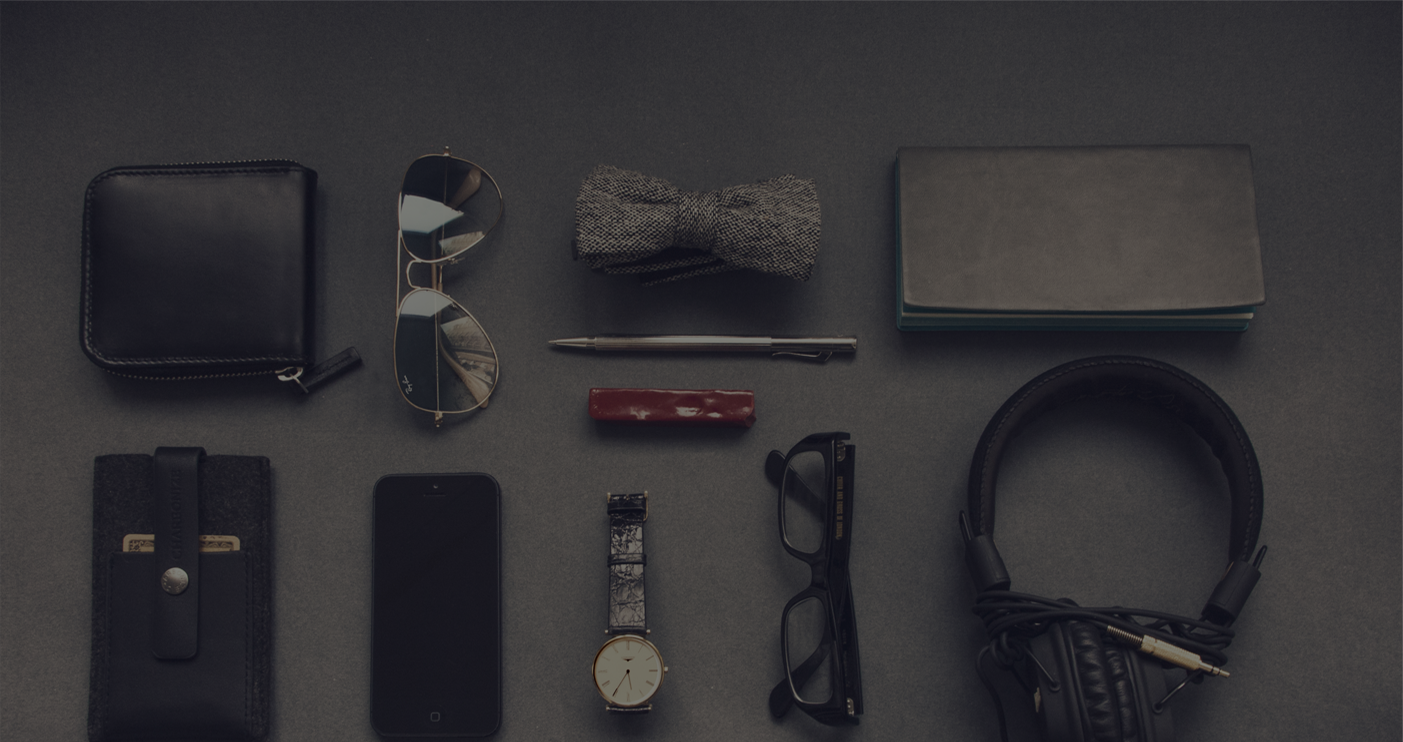
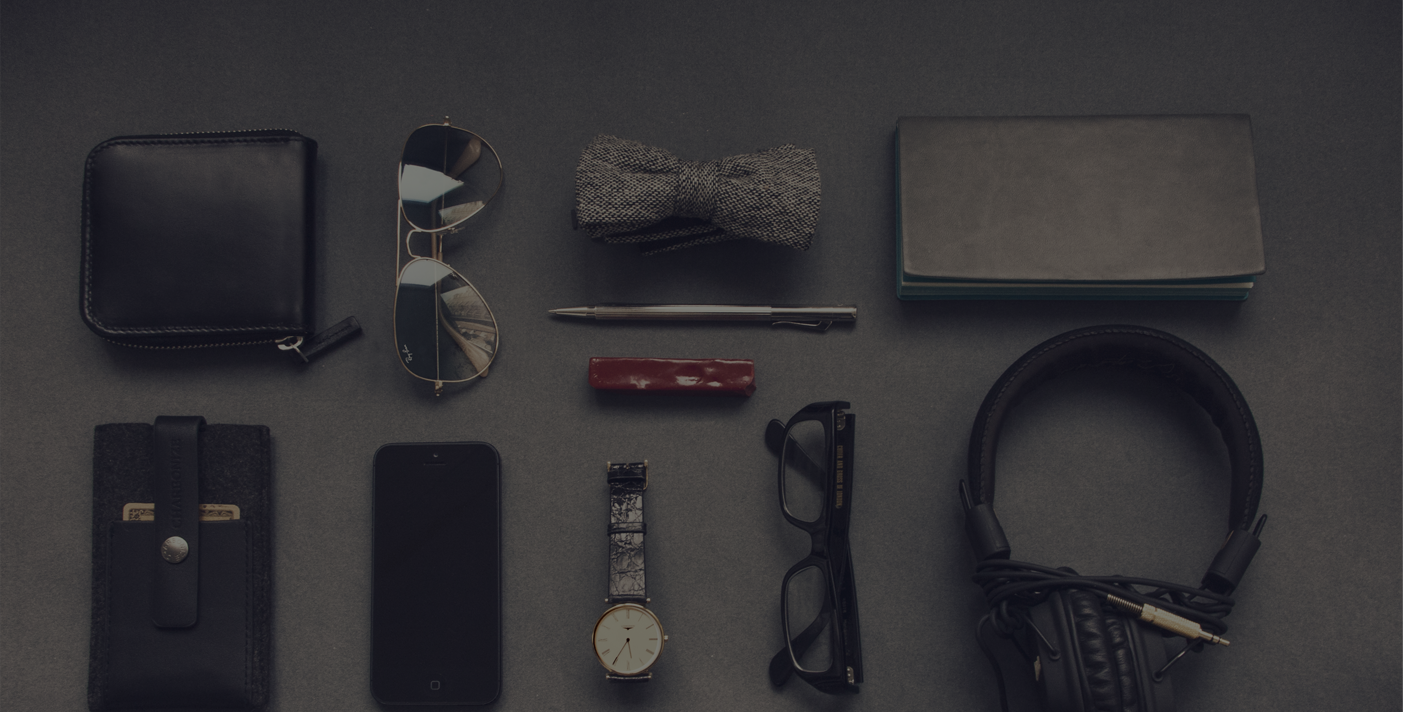
header

diff --git a/css/golden.css b/css/golden.css
@@ -1,13 +1,25 @@
+/*----------GLOBAL*/
 body {
 	color: #000000;
 	background-color: #ffffff;
 }
-header {
-	text-align: center;
-	background-size: auto auto;
-	background-image: url("../image/Tint.png");
-	background-repeat: no-repeat;
+a {
+	font-size: 18px;
+	text-decoration: none;
 }
+li {
+	display: inline-block;
+}
+.container {
+	max-width: 940px;
+	width: 100%;
+	margin: 0 auto;
+}
+.row {
+	margin: 0;
+}
+
+/*----------TYPOGRAPHY*/
 h1 {
 	margin: 0;
 	font-size: 75px;
@@ -16,12 +28,10 @@ h1, h2, a {
 	font-family: 'Montserrat', sans-serif;
 	font-weight: 700;
 	text-transform: uppercase;
-}
-h1, header h2 {
 	color: #ffffff;
 }
 header h2 {
-	margin: 0 0 50px 0;
+	margin: 190px 0 50px 0;
 	font-family: 'Droid Serif', serif;
 	font-weight: 400;
 	font-style: italic;
@@ -30,17 +40,48 @@ header h2 {
 h2 {
 	font-size: 40px;
 }
-a {
-	font-size: 18px;
-}
+
+/*-----------BUTTONS*/
 .btn {
 	margin: 60px 0 160px 0;
 	display: inline-block;
 	border-radius: 3px;
 	width: 240px;
 	line-height: 65px;
-	color: #ffffff;
 	letter-spacing: 1px;
 	background-color: #fed136;
-	text-decoration: none;
+}
+/*---------------STYLE--------------*/
+/*---------HEADER*/
+header {
+	text-align: center;
+	background-size: cover;
+	background-image: url("../image/tint.png");
+	background-repeat: no-repeat;
+}
+.navbar {
+}
+.navbar__item {
+	justify-content: space-between;
+}
+.navbar__item--logo {
+	margin-top: 50px;
+}
+.navbar__item--logo a {
+	font-family: 'Great Vibes', cursive;
+	font-size: 30px;
+	letter-spacing: 2px;
+	color: #fed136;
+	text-transform: capitalize;
+}
+.navbar__item--list {
+	margin-top: 34px;
+}
+.navbar__item--list ul li {
+	padding-left: 38px;
+}
+.navbar__item--list ul li a {
+	font-size: 14px;
+	font-weight: 400;
+	letter-spacing: 1px;
 }

diff --git a/golden.html b/golden.html
@@ -10,15 +10,34 @@
 		    <link rel="stylesheet" href="css/golden.css">
 		    <link rel="author" href="humans.txt">
 		    <link href="https://fonts.googleapis.com/css?family=Droid+Serif:400,400i|Montserrat:400,700" rel="stylesheet">
+		   <link href="https://fonts.googleapis.com/css?family=Great+Vibes" rel="stylesheet">
 	</head>
 	<body>
-	<header id="header">
-		<hgroup>
-			<h2>welcome to our studio!</h2>
-			<h1>it's nice to meet you</h1>
-		</hgroup>
-		<a class="btn" href="#contact">tell me more</a>
-	</header>
+		<header id="home">
+			<div class="container">
+				<nav class="navbar">
+					<div class="row navbar__item">
+						<div class="navbar__item--logo">
+							<a href="#home">golden</a>
+						</div>
+						<div class="navbar__item--list">
+							<ul>
+								<li><a href="#home">home</a></li>
+								<li><a href="#services">services</a></li>
+								<li><a href="#porfolio">porftolio</a></li>
+								<li><a href="#about">about</a></li>
+								<li><a href="#contact">contact</a></li>
+							</ul>
+						</div>
+					</div>
+				</nav>
+			</div>
+			<hgroup>
+				<h2>welcome to our studio!</h2>
+				<h1>it's nice to meet you</h1>
+			</hgroup>
+			<a class="btn" href="#contact">tell me more</a>
+		</header>
 		
 
 
